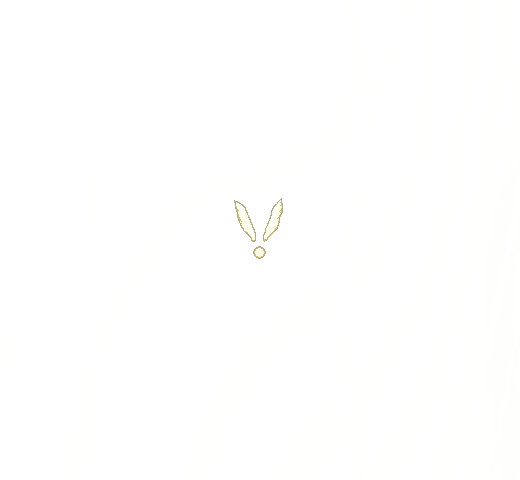
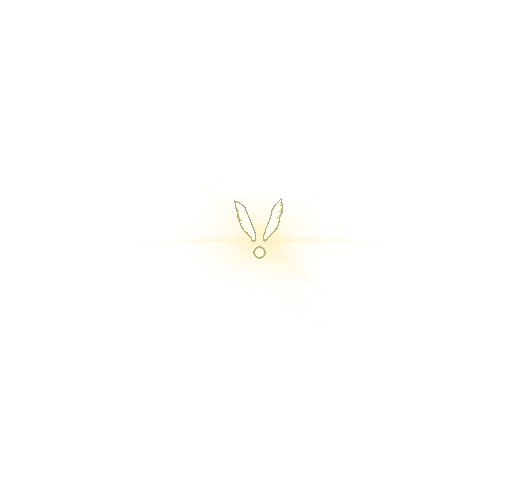
end screen game clear

Changed region(s): [[0.4, 0.4375, 0.5846, 0.5625]]

diff --git a/src/GameClear.cpp b/src/GameClear.cpp
@@ -1,0 +1,98 @@
+# include "GameClear.h"
+
+
+GameClear::GameClear()
+{
+	
+}
+
+
+GameClear::~GameClear()
+{
+
+}
+
+
+// Update function
+void GameClear::update()
+{
+	const double deltaTime = Scene::DeltaTime();
+
+	if (gameClear) {
+		endingSeqCounter += deltaTime;
+		if (endingSeqCounter <= 6)  {
+            bottomPos += deltaTime * Vec2(0, -82);
+            playerEndPos += deltaTime * Vec2(0, 72.5);
+        } else if (endingSeqCounter >= 20.0 && endingSeqCounter <= 23.0) {
+            bottomPos += deltaTime * Vec2(0, 100);
+            playerEndPos += deltaTime * Vec2(0, -90);
+        } else if (endingSeqCounter >= 23.0 && endingSeqCounter <= 25.0) {
+            bottomPos += deltaTime * Vec2(0, 100);
+        } else if (endingSeqCounter >= 25.0 && endingSeqCounter <= 30.0) {
+            bgColor = Math::Min(bgColor + 0.2f * static_cast<float>(deltaTime), 1.0f);
+            alpha = Math::Max(alpha - 0.33f * static_cast<float>(deltaTime), 0.0f);
+        }
+	}
+
+
+
+	draw();
+}
+
+
+void GameClear::reset()
+{
+    gameClear = false;
+    // Animation control flags
+    endingSeqCounter = 0.0;
+
+
+
+    // Reset all positions
+    bottomPos = Vec2(Scene::Width()/2, Scene::Height()/2 + 500);
+	playerEndPos = Vec2(Scene::Width()/2, Scene::Height()/2 - 300);
+    bgColor = 0.01f;
+    alpha = 1.0f;
+
+}
+
+
+
+// Draw function
+void GameClear::draw()
+{
+	Scene::SetBackground(ColorF{ 0.3, 0.3, 0.3 });
+	if (gameClear){
+        Scene::Rect().draw(ColorF(bgColor, bgColor, bgColor));
+
+        if (endingSeqCounter <= 17.99) {
+            finalGlow.drawAt(bottomPos);
+        } else if (endingSeqCounter <= 25.0) {
+            finalFloor.drawAt(bottomPos);
+        }
+		
+        if (endingSeqCounter <= 7.0) {
+            p8.drawAt(playerEndPos);
+        } else if (endingSeqCounter <= 9.0) {
+            p7.drawAt(playerEndPos);
+        } else if (endingSeqCounter <= 11.0) {
+            p6.drawAt(playerEndPos);
+        } else if (endingSeqCounter <= 13.0) {
+            p5.drawAt(playerEndPos);
+        } else if (endingSeqCounter <= 15.0) {
+            p4.drawAt(playerEndPos);
+        } else if (endingSeqCounter <= 17.0) {
+            p3.drawAt(playerEndPos);
+        } else if (endingSeqCounter <= 18.0) {
+            p2.drawAt(playerEndPos);
+        } else if (endingSeqCounter <= 20.0) {
+            p1.drawAt(playerEndPos);
+        } else if (endingSeqCounter <= 30.0) {
+            p1.flipped().drawAt(playerEndPos.x, playerEndPos.y, ColorF(1.0, 1.0, 1.0, alpha));
+        }
+	} 
+
+	
+
+}
+

diff --git a/src/Main.cpp b/src/Main.cpp
@@ -73,6 +73,7 @@ void Main()
     UI playerUI;
     LevelTitle levelTitle;
     GameOver gameOver;
+    GameClear gameClearSeq;
 
     Boss boss(&playerController);
 
@@ -100,6 +101,7 @@ void Main()
                 boss.Reset();
                 playerController.ResetPlayer();
                 title.reset();
+                gameClear = false;
 
                 gameStart = false;
                 firstLevelStart = false;
@@ -111,20 +113,52 @@ void Main()
             }
         }
 
+        if (gameClearSeq.gameClear){
+            if(bgMusic.isPlaying())
+                bgMusic.stop();
+            if(!endMusic.isPlaying())
+                endMusic.play();
+
+            // gameClearSeq.update();
+            if (gameClearSeq.endingSeqCounter >= 26.0){
+                endMusic.fadeVolume(0.0, 3.0s);
+            }
+            // GAME CLEAR GAME RESET
+            if(gameClearSeq.endingSeqCounter > 30.0){
+                map.ResetMap();
+                enemies.clear();
+                enemySpawnTime = InitialEnemySpawnInterval;
+                enemyAccumulatedTime = 0.0;
+                hearts.clear();
+                boss.Reset();
+                playerController.ResetPlayer();
+                title.reset();
+
+                gameStart = false;
+                firstLevelStart = false;
+                levelTitle.level = 0;
+
+                currentScore = 0;
+
+                gameClearSeq.reset();
+                gameClear = false;
+                endMusic.stop();
+            }
+        }
+
         if (!title.gameStarted)
         {
             if(!titleMusic.isPlaying())
                 titleMusic.play();
 
             title.update();
-            // title.draw();
             continue;
         }
 
         if(titleMusic.isPlaying())
                 titleMusic.stop();
 
-        if(!bgMusic.isPlaying())
+        if(!bgMusic.isPlaying() && !gameClearSeq.gameClear && !gameOver.gameOver)
             bgMusic.play();
 
         const double deltaTime = Scene::DeltaTime();
@@ -273,6 +307,7 @@ void Main()
 
         if (map.currentLayer == map.layerCount - 1 && !boss.GetStatus() && !gameClear){
             gameClear = true;
+            gameClearSeq.gameClear = true;
             playerController.OnGameClear();
             currentScore += bossScore;
             effect.add<Spark>(boss.GetCollider().center,boss.GetCurretType());
@@ -340,5 +375,6 @@ void Main()
         }
 
         gameOver.update();
+        gameClearSeq.update();
     }
 }

diff --git a/src/Title.h b/src/Title.h
@@ -24,8 +24,7 @@ public:
 	bool gameStarted = false;
 	bool startingSequence = false;
 	float startingSeqCounter = 0;
-	bool gameEndSequence = false;
-	double gameEndTimer = 0.0;
+
 
 private:
 	Button* playButton;
@@ -35,12 +34,6 @@ private:
 	const s3d::Texture start2{Resource(U"Assets/TitlescreenAssets/start2.png")};
 	const s3d::Texture p1{Resource(U"Assets/TitlescreenAssets/player1.png")};
 	const s3d::Texture p2{Resource(U"Assets/TitlescreenAssets/player2.png")};
-	const s3d::Texture p3{Resource(U"Assets/TitlescreenAssets/3.png")};
-	const s3d::Texture p4{Resource(U"Assets/TitlescreenAssets/4.png")};
-	const s3d::Texture p5{Resource(U"Assets/TitlescreenAssets/5.png")};
-	const s3d::Texture p6{Resource(U"Assets/TitlescreenAssets/6.png")};
-	const s3d::Texture p7{Resource(U"Assets/TitlescreenAssets/7.png")};
-	const s3d::Texture p8{Resource(U"Assets/TitlescreenAssets/8.png")};
 	const s3d::Texture title1{Resource(U"Assets/TitlescreenAssets/title1.png")};
 	const s3d::Texture title2{Resource(U"Assets/TitlescreenAssets/title2.png")};
 	const s3d::Texture cloudr1{Resource(U"Assets/TitlescreenAssets/cloudright1.png")};
@@ -49,8 +42,7 @@ private:
 	const s3d::Texture cloudl2{Resource(U"Assets/TitlescreenAssets/cloudleft2.png")};
 	const s3d::Texture inferno{Resource(U"Assets/TitlescreenAssets/inferno.png")};
 	const s3d::Texture entry{Resource(U"Assets/TitlescreenAssets/entrys.png")};
-	const s3d::Texture finalGlow{Resource(U"Assets/TitlescreenAssets/FinalGlow.png")};
-	const s3d::Texture finalFloor{Resource(U"Assets/TitlescreenAssets/FinalFloor.png")};
+
 
 
 	Vec2 basePos = Vec2(Scene::Width()/2, Scene::Height()/2);
@@ -61,8 +53,7 @@ private:
 	Vec2 entryPos = Vec2(Scene::Width()/2, Scene::Height()/2 + 600);
 	Vec2 playerSpriteCallibration = Vec2(1,9);
 
-	Vec2 bottomPos = Vec2(Scene::Width()/2, Scene::Height() + 600);
-	Vec2 playerEndPos = Vec2(Scene::Width()/2, Scene::Height()/2 - 300);
+
 
 
 };

diff --git a/src/GameClear.h b/src/GameClear.h
@@ -1,0 +1,50 @@
+# pragma once
+
+# include <Siv3D.hpp>
+# include "Button.h"
+#include "MapManager.h"
+
+class GameClear
+{
+public:
+	
+	// Constructor (must be implemented)
+	GameClear();
+	~GameClear();
+
+	// Update function
+	void update();
+
+	// Draw function
+	void draw();
+
+    void reset();
+
+    bool gameClear = false;
+	float endingSeqCounter = 0;
+
+private:
+
+	const s3d::Texture finalGlow{Resource(U"Assets/TitlescreenAssets/FinalGlow.png")};
+	const s3d::Texture finalFloor{Resource(U"Assets/TitlescreenAssets/FinalFloor.png")};
+    const s3d::Texture p1{Resource(U"Assets/TitlescreenAssets/player1.png")};
+	const s3d::Texture p2{Resource(U"Assets/TitlescreenAssets/player2.png")};
+	const s3d::Texture p3{Resource(U"Assets/TitlescreenAssets/3.png")};
+	const s3d::Texture p4{Resource(U"Assets/TitlescreenAssets/4.png")};
+	const s3d::Texture p5{Resource(U"Assets/TitlescreenAssets/5.png")};
+	const s3d::Texture p6{Resource(U"Assets/TitlescreenAssets/6.png")};
+	const s3d::Texture p7{Resource(U"Assets/TitlescreenAssets/7.png")};
+	const s3d::Texture p8{Resource(U"Assets/TitlescreenAssets/8.png")};
+
+
+	const Vec2 basePos = Vec2(Scene::Width()/2, Scene::Height()/2);
+
+
+    Vec2 bottomPos = Vec2(Scene::Width()/2, Scene::Height()/2 + 500);
+	Vec2 playerEndPos = Vec2(Scene::Width()/2, Scene::Height()/2 - 300);
+    float bgColor = 0.01f;
+    float alpha = 1.0f;
+
+
+    
+};

diff --git a/src/MapManager.h b/src/MapManager.h
@@ -85,7 +85,7 @@ private:
     float bgCurrentScrollSpeed = 60.0f;
     double scrollOffset = 0.0; // current scroll offset
 
-    static constexpr float layerTime = 30.0f; // time per layer in seconds (excluding final layer)
+    static constexpr float layerTime = 1.0f; // time per layer in seconds (excluding final layer)
     float layerTimer = 0.0f;
 
     Array<Grid<int32>> map; // map with layers

diff --git a/src/MapManager.cpp b/src/MapManager.cpp
@@ -124,6 +124,7 @@ void Map::ResetMap()
     spawningTraps = true;
 
     layerSwitched = false;
+    reverseScroll = false;
 
     //Console << U"Map reset";
 }

diff --git a/src/utils.h b/src/utils.h
@@ -10,6 +10,7 @@
 #include "InGameUI.h"
 #include "LevelTitle.h"
 #include "GameOver.h"
+#include "GameClear.h"
 
 namespace UTILS
 {
